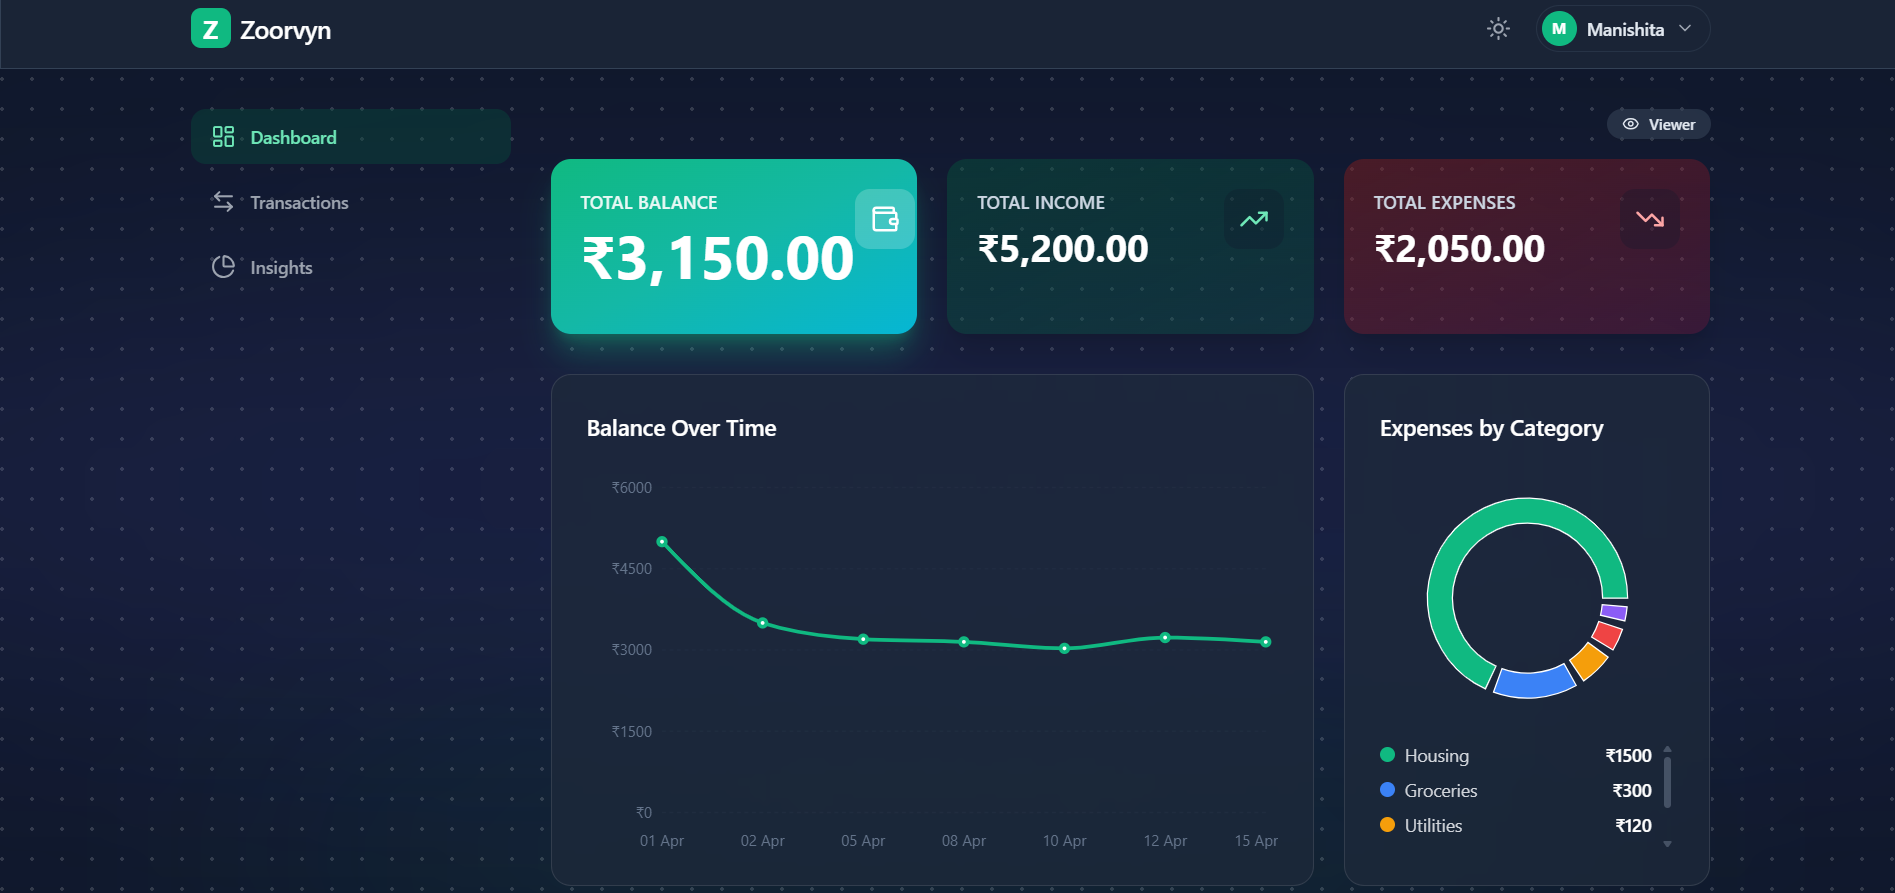
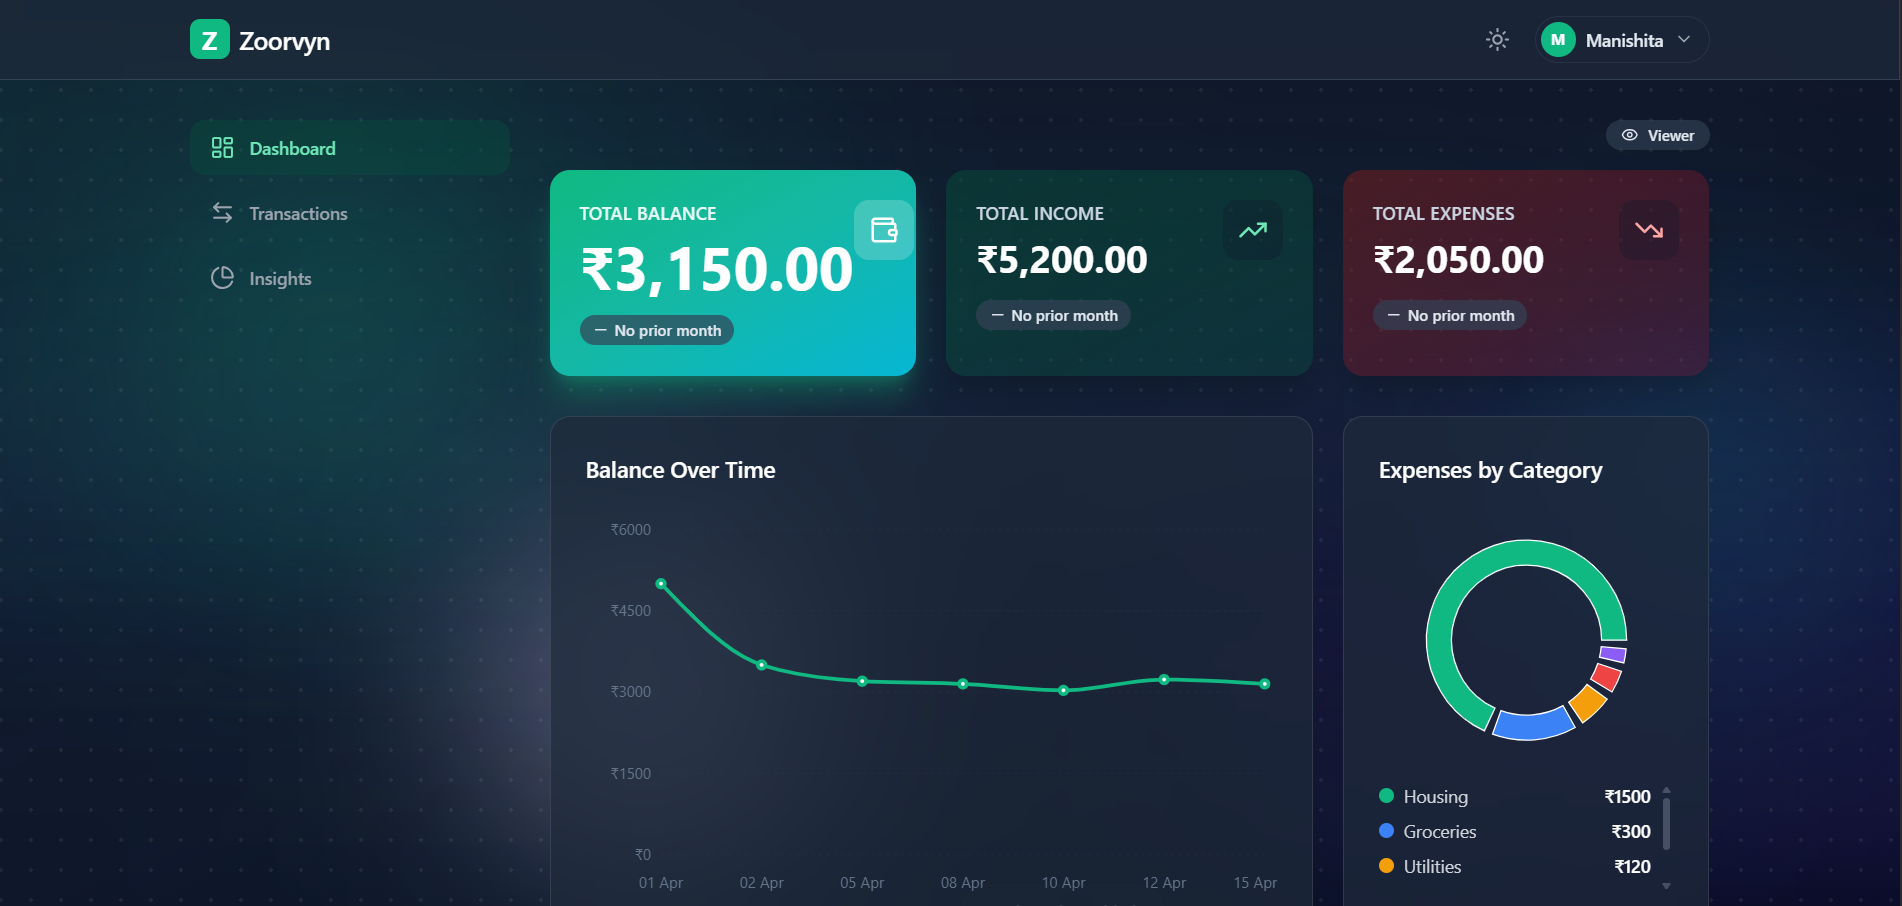
animated background

diff --git a/src/features/dashboard/DashboardOverview.jsx b/src/features/dashboard/DashboardOverview.jsx
@@ -1,12 +1,12 @@
 import { createElement, useMemo } from 'react';
 import { useTransactions } from '../../context/TransactionContext';
-import { Wallet, TrendingUp, TrendingDown } from 'lucide-react';
+import { Wallet, TrendingUp, TrendingDown, ArrowUpRight, ArrowDownRight, Minus } from 'lucide-react';
 import { LineChart, Line, XAxis, YAxis, CartesianGrid, Tooltip, ResponsiveContainer, PieChart, Pie, Cell } from 'recharts';
 import { cn } from '../../utils/cn';
 
 const COLORS = ['#10b981', '#3b82f6', '#f59e0b', '#ef4444', '#8b5cf6', '#ec4899', '#14b8a6'];
 
-function SummaryCard({ title, amount, type, icon: CardIcon }) {
+function SummaryCard({ title, amount, type, trend, icon: CardIcon }) {
   const colorClass =
     type === 'balance' ? 'text-white' : type === 'income' ? 'text-emerald-600 dark:text-emerald-300' : 'text-red-600 dark:text-red-300';
   const gradientClass =
@@ -16,6 +16,11 @@ function SummaryCard({ title, amount, type, icon: CardIcon }) {
         ? 'bg-gradient-to-br from-emerald-50 to-emerald-100 dark:from-emerald-900/50 dark:to-emerald-800/30'
         : 'bg-gradient-to-br from-red-50 to-rose-100 dark:from-red-900/50 dark:to-rose-900/30';
   const sizeClass = type === 'balance' ? 'text-3xl sm:text-5xl' : 'text-2xl sm:text-3xl';
+  const hasTrend = typeof trend === 'number' && Number.isFinite(trend);
+  const isUp = hasTrend && trend >= 0;
+  const TrendIcon = !hasTrend ? Minus : isUp ? ArrowUpRight : ArrowDownRight;
+  const trendText = !hasTrend ? 'No prior month' : `${Math.abs(trend).toFixed(1)}% vs last month`;
+  const trendIsGood = type === 'expense' ? !isUp : isUp;
 
   return (
     <div className={cn('rounded-2xl p-5 sm:p-6 shadow-xl transition-all duration-200 hover:-translate-y-1 hover:shadow-2xl', gradientClass)}>
@@ -32,6 +37,17 @@ function SummaryCard({ title, amount, type, icon: CardIcon }) {
           {createElement(CardIcon, { className: cn('w-6 h-6', colorClass) })}
         </div>
       </div>
+      <div
+        className={cn(
+          'inline-flex items-center gap-1 rounded-full px-2.5 py-1 text-xs font-semibold',
+          !hasTrend && 'bg-slate-200/70 text-slate-600 dark:bg-slate-700/70 dark:text-slate-200',
+          hasTrend && trendIsGood && 'bg-emerald-100/90 text-emerald-700 dark:bg-emerald-900/40 dark:text-emerald-300',
+          hasTrend && !trendIsGood && 'bg-red-100/90 text-red-700 dark:bg-red-900/40 dark:text-red-300'
+        )}
+      >
+        <TrendIcon className="h-3.5 w-3.5" />
+        {trendText}
+      </div>
     </div>
   );
 }
@@ -39,11 +55,12 @@ function SummaryCard({ title, amount, type, icon: CardIcon }) {
 export default function DashboardOverview() {
   const { transactions } = useTransactions();
 
-  const { income, expense, balance, pieData, lineData } = useMemo(() => {
+  const { income, expense, balance, pieData, lineData, trends } = useMemo(() => {
     let inc = 0;
     let exp = 0;
     const categories = {};
     const timeline = {};
+    const monthBuckets = {};
 
     transactions.forEach(t => {
       const amt = Number(t.amount);
@@ -58,6 +75,16 @@ export default function DashboardOverview() {
         timeline[t.date] = { date: t.date, net: 0 };
       }
       timeline[t.date].net += t.type === 'Income' ? amt : -amt;
+
+      const monthKey = new Date(t.date).toISOString().slice(0, 7);
+      if (!monthBuckets[monthKey]) {
+        monthBuckets[monthKey] = { income: 0, expense: 0 };
+      }
+      if (t.type === 'Income') {
+        monthBuckets[monthKey].income += amt;
+      } else {
+        monthBuckets[monthKey].expense += amt;
+      }
     });
 
     const pieFormatted = Object.entries(categories).map(([name, value]) => ({ name, value })).sort((a,b) => b.value - a.value);
@@ -73,12 +100,24 @@ export default function DashboardOverview() {
         return acc;
       }, []);
 
+    const months = Object.keys(monthBuckets).sort();
+    const currentMonth = months[months.length - 1];
+    const previousMonth = months[months.length - 2];
+    const current = currentMonth ? monthBuckets[currentMonth] : { income: 0, expense: 0 };
+    const previous = previousMonth ? monthBuckets[previousMonth] : { income: 0, expense: 0 };
+    const trendOf = (curr, prev) => (prev > 0 ? ((curr - prev) / prev) * 100 : null);
+
     return {
       income: inc,
       expense: exp,
       balance: inc - exp,
       pieData: pieFormatted,
-      lineData: lineFormatted
+      lineData: lineFormatted,
+      trends: {
+        income: trendOf(current.income, previous.income),
+        expense: trendOf(current.expense, previous.expense),
+        balance: trendOf(current.income - current.expense, previous.income - previous.expense)
+      }
     };
   }, [transactions]);
 
@@ -91,9 +130,9 @@ export default function DashboardOverview() {
       )}
       {/* Summary Cards */}
       <div className="grid grid-cols-1 lg:grid-cols-3 gap-6">
-        <SummaryCard title="Total Balance" amount={balance} type="balance" icon={Wallet} />
-        <SummaryCard title="Total Income" amount={income} type="income" icon={TrendingUp} />
-        <SummaryCard title="Total Expenses" amount={expense} type="expense" icon={TrendingDown} />
+        <SummaryCard title="Total Balance" amount={balance} type="balance" trend={trends.balance} icon={Wallet} />
+        <SummaryCard title="Total Income" amount={income} type="income" trend={trends.income} icon={TrendingUp} />
+        <SummaryCard title="Total Expenses" amount={expense} type="expense" trend={trends.expense} icon={TrendingDown} />
       </div>
 
       {/* Charts Row */}

diff --git a/src/components/AnimatedBackground.jsx b/src/components/AnimatedBackground.jsx
@@ -1,39 +1,82 @@
 // eslint-disable-next-line no-unused-vars
 import { motion } from 'framer-motion';
 
+const orbTransition = {
+  duration: 22,
+  repeat: Infinity,
+  ease: 'easeInOut',
+};
+
 export default function AnimatedBackground() {
   return (
     <div className="fixed inset-0 overflow-hidden pointer-events-none -z-10">
-      {/* Subtle Dot Pattern */}
-      <div 
-        className="absolute inset-0 opacity-[0.06] dark:opacity-[0.15] text-slate-900 dark:text-white"
+      {/* Base wash — light: soft mint/sky; dark: deep slate + hint of color */}
+      <div className="absolute inset-0 bg-gradient-to-br from-gray-50 via-emerald-50/40 to-sky-50/30 dark:from-dark-bg dark:via-slate-900 dark:to-slate-950 transition-colors duration-500" />
+
+      {/* Large drifting gradient orbs — CSS animation keeps GPU-friendly motion */}
+      <div className="absolute -left-1/4 top-0 h-[70vh] w-[70vw] rounded-full bg-gradient-to-br from-emerald-200/40 via-teal-100/30 to-transparent blur-3xl dark:from-emerald-500/15 dark:via-teal-600/10 dark:to-transparent animate-bg-drift" />
+      <div className="absolute -right-1/4 bottom-0 h-[65vh] w-[65vw] rounded-full bg-gradient-to-tl from-sky-200/35 via-blue-100/25 to-transparent blur-3xl dark:from-indigo-500/20 dark:via-violet-600/10 dark:to-transparent animate-bg-drift-slow" />
+
+      {/* Subtle dot pattern + gentle opacity pulse */}
+      <motion.div
+        className="absolute inset-0 text-slate-900 dark:text-white"
         style={{
-          backgroundImage: 'radial-gradient(circle at 1.5px 1.5px, currentcolor 1.5px, transparent 0)',
-          backgroundSize: '24px 24px'
+          backgroundImage:
+            'radial-gradient(circle at 1.5px 1.5px, currentcolor 1.5px, transparent 0)',
+          backgroundSize: '24px 24px',
         }}
+        animate={{ opacity: [0.05, 0.09, 0.05] }}
+        transition={{ duration: 14, repeat: Infinity, ease: 'easeInOut' }}
       />
 
-      {/* Extremely Minimal Central Horizon Glow */}
-      <div className="absolute top-[35%] left-[-20%] right-[-20%] flex justify-center">
-        <motion.div 
-          animate={{ 
-            opacity: [0.5, 0.7, 0.5],
-            scaleY: [0.8, 1.3, 0.8]
+      {/* Floating soft orbs — Framer Motion drift (theme-aware) */}
+      <motion.div
+        className="absolute left-[5%] top-[20%] h-[45vmin] w-[45vmin] rounded-full bg-emerald-300/25 blur-[90px] dark:bg-emerald-500/20"
+        animate={{
+          x: [0, 40, -25, 0],
+          y: [0, -35, 30, 0],
+          scale: [1, 1.08, 0.95, 1],
+        }}
+        transition={{ ...orbTransition, delay: 0 }}
+      />
+      <motion.div
+        className="absolute right-[0%] top-[35%] h-[40vmin] w-[40vmin] rounded-full bg-sky-300/30 blur-[85px] dark:bg-cyan-500/15"
+        animate={{
+          x: [0, -45, 20, 0],
+          y: [0, 40, -20, 0],
+          scale: [1, 0.92, 1.06, 1],
+        }}
+        transition={{ ...orbTransition, delay: 3, duration: 26 }}
+      />
+      <motion.div
+        className="absolute bottom-[5%] left-[25%] h-[38vmin] w-[38vmin] rounded-full bg-violet-200/35 blur-[80px] dark:bg-violet-600/18"
+        animate={{
+          x: [0, 30, -35, 0],
+          y: [0, -25, 35, 0],
+          scale: [1, 1.05, 0.97, 1],
+        }}
+        transition={{ ...orbTransition, delay: 6, duration: 30 }}
+      />
+
+      {/* Horizon glows — breathing scale + shimmer */}
+      <div className="absolute top-[30%] left-[-20%] right-[-20%] flex justify-center">
+        <motion.div
+          animate={{
+            opacity: [0.45, 0.65, 0.45],
+            scaleY: [0.85, 1.15, 0.85],
           }}
-          transition={{ duration: 10, repeat: Infinity, ease: "easeInOut" }}
-          className="w-full h-[40vh] bg-brand-400/20 dark:bg-indigo-500/20 blur-[100px] rounded-[100%]"
+          transition={{ duration: 12, repeat: Infinity, ease: 'easeInOut' }}
+          className="h-[42vh] w-full rounded-[100%] bg-gradient-to-b from-brand-400/25 via-teal-300/15 to-transparent blur-[100px] dark:from-brand-500/25 dark:via-indigo-500/15 dark:to-transparent"
         />
       </div>
-
-      {/* Secondary Brand Glow */}
-      <div className="absolute bottom-[-10%] left-[10%] right-[10%] flex justify-center">
-        <motion.div 
-          animate={{ 
-            opacity: [0.4, 0.6, 0.4],
-            scaleX: [0.9, 1.2, 0.9]
+      <div className="absolute bottom-[-8%] left-[8%] right-[8%] flex justify-center">
+        <motion.div
+          animate={{
+            opacity: [0.35, 0.55, 0.35],
+            scaleX: [0.92, 1.12, 0.92],
           }}
-          transition={{ duration: 15, repeat: Infinity, ease: "easeInOut", delay: 2 }}
-          className="w-[80vw] h-[30vh] bg-blue-400/20 dark:bg-brand-500/20 blur-[100px] rounded-[100%]"
+          transition={{ duration: 16, repeat: Infinity, ease: 'easeInOut', delay: 2 }}
+          className="h-[32vh] w-[85vw] rounded-[100%] bg-gradient-to-t from-blue-300/20 via-sky-200/10 to-transparent blur-[100px] dark:from-brand-500/20 dark:via-blue-600/12 dark:to-transparent"
         />
       </div>
     </div>

diff --git a/src/context/TransactionContext.jsx b/src/context/TransactionContext.jsx
@@ -1,11 +1,13 @@
 import { createContext, useContext, useEffect, useState } from 'react';
 import { INITIAL_TRANSACTIONS } from '../data/mockData';
 import { useToast } from './ToastContext';
+import { useRole } from './RoleContext';
 
 const TransactionContext = createContext();
 
 export function TransactionProvider({ children }) {
   const { showToast } = useToast();
+  const { isAdmin } = useRole();
   const [transactions, setTransactions] = useState(() => {
     const saved = localStorage.getItem('finance-dashboard-transactions');
     return saved ? JSON.parse(saved) : INITIAL_TRANSACTIONS;
@@ -16,16 +18,28 @@ export function TransactionProvider({ children }) {
   }, [transactions]);
 
   const addTransaction = (transaction) => {
+    if (!isAdmin) {
+      showToast('Viewer mode is read-only', 'error');
+      return;
+    }
     setTransactions(prev => [{ ...transaction, id: Date.now().toString() }, ...prev]);
     showToast('Transaction added', 'success');
   };
 
   const editTransaction = (id, updated) => {
+    if (!isAdmin) {
+      showToast('Viewer mode is read-only', 'error');
+      return;
+    }
     setTransactions(prev => prev.map(t => t.id === id ? { ...t, ...updated } : t));
     showToast('Transaction updated', 'info');
   };
 
   const deleteTransaction = (id) => {
+    if (!isAdmin) {
+      showToast('Viewer mode is read-only', 'error');
+      return;
+    }
     setTransactions(prev => prev.filter(t => t.id !== id));
     showToast('Transaction deleted', 'error');
   };

diff --git a/src/features/insights/InsightsPanel.jsx b/src/features/insights/InsightsPanel.jsx
@@ -48,15 +48,16 @@ export default function InsightsPanel() {
     const monthlyComparison =
       previousExpense > 0 ? ((currentExpense - previousExpense) / previousExpense) * 100 : 0;
 
+    const topCategoryShare = highestCategory && totalExpense > 0 ? (highestCategory[1] / totalExpense) * 100 : 0;
     let simpleInsight = 'Track expenses for a second month to unlock monthly comparison.';
     if (highestCategory && previousExpense > 0) {
       const direction = monthlyComparison >= 0 ? 'more' : 'less';
-      simpleInsight = `You spent ${Math.abs(monthlyComparison).toFixed(0)}% ${direction} this month, mostly on ${highestCategory[0]}.`;
+      simpleInsight = `You spent ${Math.abs(monthlyComparison).toFixed(0)}% ${direction} this month. ${highestCategory[0]} alone is ${topCategoryShare.toFixed(0)}% of total expenses.`;
     } else if (highestCategory) {
-      simpleInsight = `Top spending category is ${highestCategory[0]}. Watch this bucket closely next month.`;
+      simpleInsight = `Top spending category is ${highestCategory[0]} (${topCategoryShare.toFixed(0)}% of your expense mix).`;
     }
 
-    return { totalIncome, totalExpense, highestCategory, largestExpense, savingsRate, monthlyComparison, simpleInsight };
+    return { totalIncome, totalExpense, highestCategory, largestExpense, savingsRate, monthlyComparison, simpleInsight, topCategoryShare };
   }, [transactions]);
 
   if (!insights) {

diff --git a/src/index.css b/src/index.css
@@ -12,7 +12,28 @@
   }
 }
 
+@keyframes bg-gradient-drift {
+  0%,
+  100% {
+    transform: translate(0%, 0%) rotate(0deg) scale(1);
+  }
+  33% {
+    transform: translate(3%, -2%) rotate(2deg) scale(1.03);
+  }
+  66% {
+    transform: translate(-2%, 3%) rotate(-1deg) scale(0.98);
+  }
+}
+
 @layer utilities {
+  .animate-bg-drift {
+    animation: bg-gradient-drift 28s ease-in-out infinite;
+  }
+
+  .animate-bg-drift-slow {
+    animation: bg-gradient-drift 38s ease-in-out infinite reverse;
+  }
+
   .glass {
     @apply bg-white/70 backdrop-blur-md border border-white/20 shadow-sm dark:bg-dark-card/70 dark:border-white/10 dark:shadow-none;
   }
